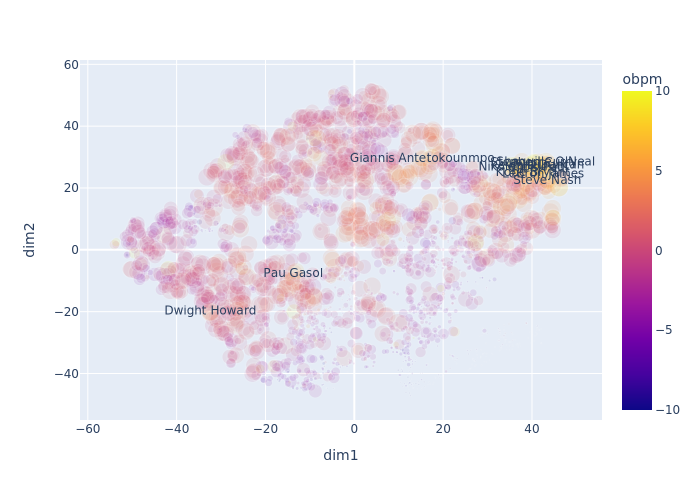
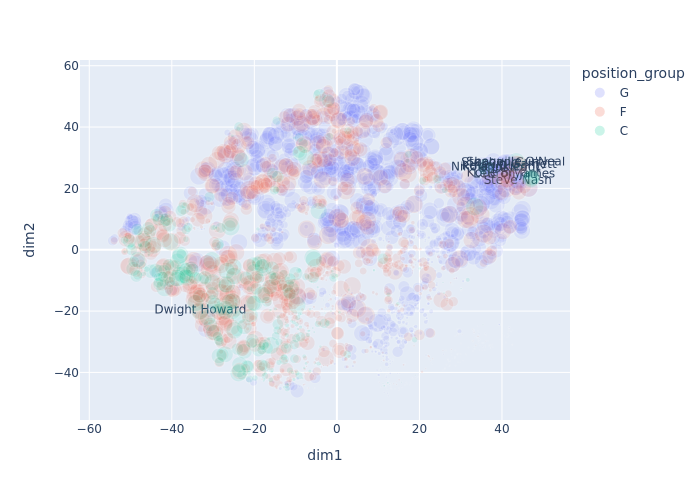
made plots prettier

diff --git a/main.py b/main.py
@@ -8,7 +8,6 @@ import pickle
 import numpyro
 import plotly.express as px
 from sklearn.manifold import TSNE
-from sklearn.preprocessing import MinMaxScaler
 from numpyro.distributions import MatrixNormal
 from numpyro.diagnostics import print_summary
 from model.hsgp import make_convex_phi, diag_spectral_density, make_convex_f, make_psi_gamma
@@ -209,18 +208,19 @@ if __name__ == "__main__":
         fig.write_image("model_output/model_plots/debug_predictions_svi_full_poisson_minutes.png", format = "png")
 
     if "cp" in model_name:
-        player_labels = ["Stephen Curry", "Tim Duncan", "Kevin Durant", "LeBron James", "Kobe Bryant", 
-                         "Dwight Howard", "Pau Gasol", "Nikola Jokic", "Giannis Antetokounmpo", "Steve Nash", 
+        player_labels = ["Stephen Curry", "Kevin Durant", "LeBron James", "Kobe Bryant", 
+                         "Dwight Howard",  "Nikola Jokic", "Kevin Garnett", "Steve Nash", 
                          "Chris Paul", "Shaquille O'Neal"]
         X = samples["U__loc"]
         tsne = TSNE(n_components=2)
-        X_tsne_df = pd.DataFrame(tsne.fit_transform(X), columns = ["dim1", "dim2"])
+        X_tsne_df = pd.DataFrame(tsne.fit_transform(X), columns = ["Dim. 1", "Dim. 2"])
         id_df = data[["position_group","name","id", "minutes"]].groupby("id").max().reset_index()
         X_tsne_df = pd.concat([X_tsne_df, id_df], axis = 1)
         X_tsne_df["name"] = X_tsne_df["name"].apply(lambda x: x if x in player_labels else "")
         X_tsne_df["minutes"] /= np.max(X_tsne_df["minutes"])
-        fig = px.scatter(X_tsne_df, x = "dim1", y = "dim2", color = "position_group", text="name", size = "minutes",
-                         opacity = .1)
+        X_tsne_df.rename(mapper = {"position_group": "Position"}, inplace=True, axis=1)
+        fig = px.scatter(X_tsne_df, x = "Dim. 1", y = "Dim. 2", color = "Position", text="name", size = "minutes",
+                         opacity = .1, title="T-SNE Visualization of Latent Player Embedding", )
         fig.write_image(f"model_output/model_plots/{model_name}_latent_space.png", format = "png")
 
         with open("model_output/latent_variable.pkl", "rb") as f:
